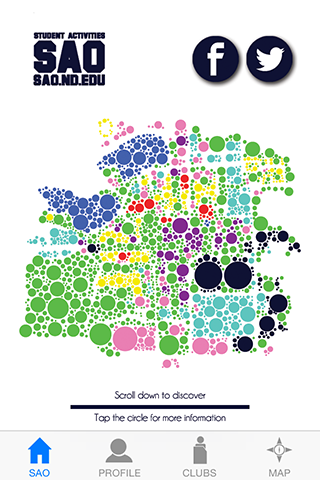
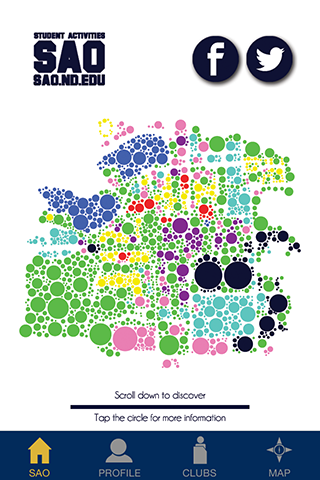
Hid status bar for clubtableview Changed email navigation bar updated splash images

Changed region(s): [[0.0, 0.875, 1.0, 1.0]]

diff --git a/SAO/SAOClubDataViewController.m b/SAO/SAOClubDataViewController.m
@@ -81,6 +81,7 @@
 	
 	[self fillFavoritedStar];
 }
+
 - (IBAction)contactButtonTapped:(UIButton *)sender
 {
 	NSString * name  = [[NSUserDefaults standardUserDefaults] objectForKey:NAME];
@@ -132,21 +133,10 @@
 	// To address
 	NSArray *toRecipents = [NSArray arrayWithObject:[[(SAOClubNavigationController* )self.navigationController clubDictionary] valueForKey:@"Email"]];
 	
+    // Setting navigation bar to white -- because cannot change MailComposerVC's navigation bar or status bar to blue & white respectively
+    [UINavigationBar appearance].barTintColor = [UIColor whiteColor];
+
 	MFMailComposeViewController *mc = [[MFMailComposeViewController alloc] init];
-    //mc.navigationBar.barStyle = UIBarStyleBlackTranslucent;
-    //mc.navigationBar.barStyle = UIBarStyleDefault;
-    //mc.navigationBar.tintColor = [UIColor grayColor];
-    //mc.navigationBar.barTintColor = [UIColor colorWithRed:2.0/255.0 green:43.0/255.0 blue:91.0/255.0 alpha:1];
-    [[mc navigationBar] setTintColor:[UIColor grayColor]];
-    [[mc navigationBar] setTranslucent:NO];
-    [[mc navigationBar] setTintColor:[UIColor colorWithRed:2.0/255.0 green:43.0/255.0 blue:91.0/255.0 alpha:1]];
-    //mc.navigationBar.translucent = NO;
-    
-    // Sets status bar to same style (white content) as SAOClubVC
-    [self presentViewController:mc animated:YES completion:^{
-        [[UIApplication sharedApplication] setStatusBarStyle:UIStatusBarStyleLightContent];
-        [self setNeedsStatusBarAppearanceUpdate];
-    }];
     
     mc.mailComposeDelegate = self;
 	[mc setSubject:emailTitle];
@@ -155,6 +145,9 @@
 	
 	// Present mail view controller on screen
 	[self presentViewController:mc animated:YES completion:NULL];
+    
+    // Changing navigation bar back to ND Blue
+    [UINavigationBar appearance].barTintColor = [UIColor colorWithRed:2.0/255.0 green:43.0/255.0 blue:91.0/255.0 alpha:1];
 }
 
 

diff --git a/SAO/SAOClubTableViewController.m b/SAO/SAOClubTableViewController.m
@@ -47,9 +47,9 @@
         [self.tableView scrollRectToVisible:sectionRect animated:YES];
 }
 
--(UIStatusBarStyle) preferredStatusBarStyle
+- (BOOL)prefersStatusBarHidden
 {
-    return UIStatusBarStyleBlackOpaque;
+    return YES;
 }
 
 - (void)viewDidLoad
@@ -97,8 +97,6 @@
     // Tab bar ND Blue; selected icon ND gold
     [[UITabBar appearance] setBarTintColor: [UIColor colorWithRed:2.0/255.0 green:43.0/255.0 blue:91.0/255.0 alpha:1]];
     [[UITabBar appearance] setSelectedImageTintColor:[UIColor colorWithRed:220.0/255.0 green:180.0/255.0 blue:57.0/255.0 alpha:1]];
-    //[[UITabBar appearance] setSelectedImageTintColor:[UIColor whiteColor]];
-    //[[UITabBar appearance] setBarTintColor:[UIColor blackColor]];
 }
 
 - (void)prepareForSegue:(UIStoryboardSegue *)segue
@@ -207,6 +205,7 @@ shouldReloadTableForSearchString:(NSString *)searchString
 		return [[[(SAOTabBarController*)self.tabBarController clubs] filteredArrayUsingPredicate:resultPredicate] count];
 	}
 }
+
 
 -(NSString *)tableView:(UITableView *)tableView titleForHeaderInSection:(NSInteger)section
 {

diff --git a/SAO/SAOProfileViewController.m b/SAO/SAOProfileViewController.m
@@ -73,8 +73,6 @@
     // Tab bar ND Blue; selected icon ND gold
     [[UITabBar appearance] setBarTintColor: [UIColor colorWithRed:2.0/255.0 green:43.0/255.0 blue:91.0/255.0 alpha:1]];
     [[UITabBar appearance] setSelectedImageTintColor:[UIColor colorWithRed:220.0/255.0 green:180.0/255.0 blue:57.0/255.0 alpha:1]];
-    //[[UITabBar appearance] setSelectedImageTintColor:[UIColor whiteColor]];
-    //[[UITabBar appearance] setBarTintColor:[UIColor blackColor]];
     
     
 	self.nameLabel.text = [[NSUserDefaults standardUserDefaults] valueForKey:NAME];

diff --git a/SAO/SAOViewController.m b/SAO/SAOViewController.m
@@ -72,8 +72,6 @@
     // Tab bar ND Blue; selected icon ND gold
     [[UITabBar appearance] setBarTintColor: [UIColor colorWithRed:2.0/255.0 green:43.0/255.0 blue:91.0/255.0 alpha:1]];
     [[UITabBar appearance] setSelectedImageTintColor:[UIColor colorWithRed:220.0/255.0 green:180.0/255.0 blue:57.0/255.0 alpha:1]];
-    //[[UITabBar appearance] setSelectedImageTintColor:[UIColor whiteColor]];
-    //[[UITabBar appearance] setBarTintColor:[UIColor blackColor]];
 	
 	
 	CGRect screenBounds = [[UIScreen mainScreen] bounds];
